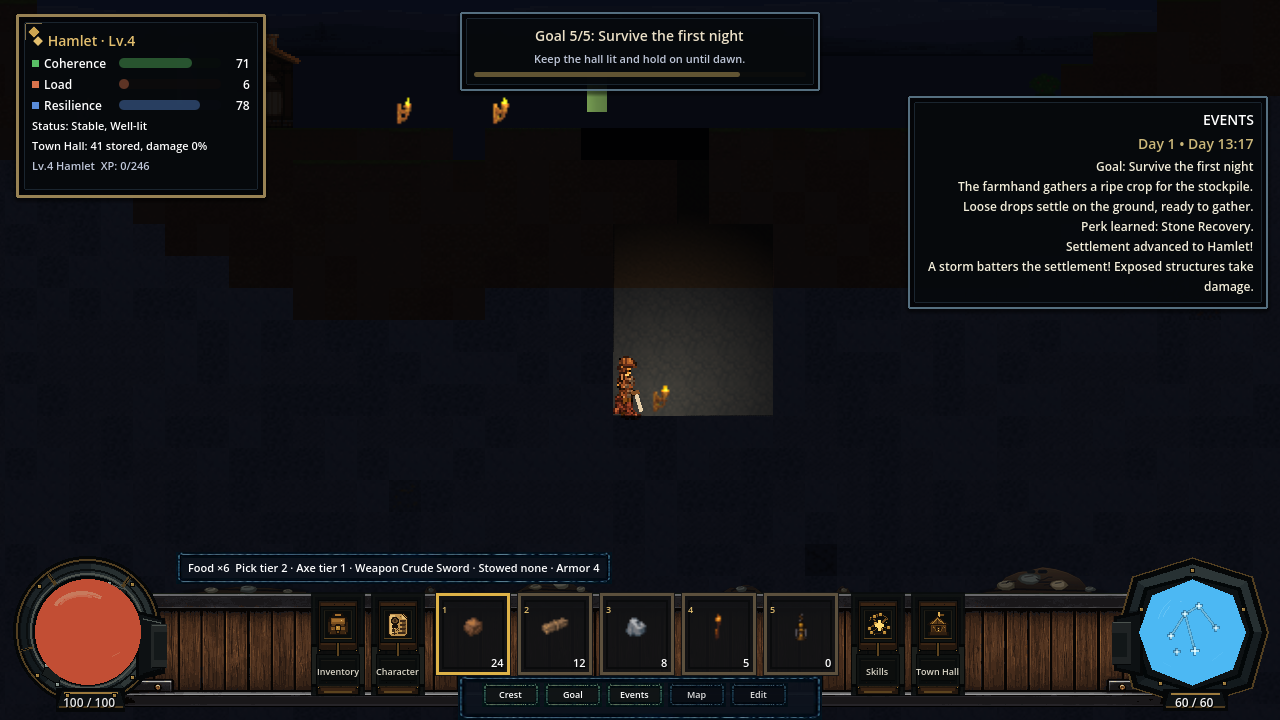
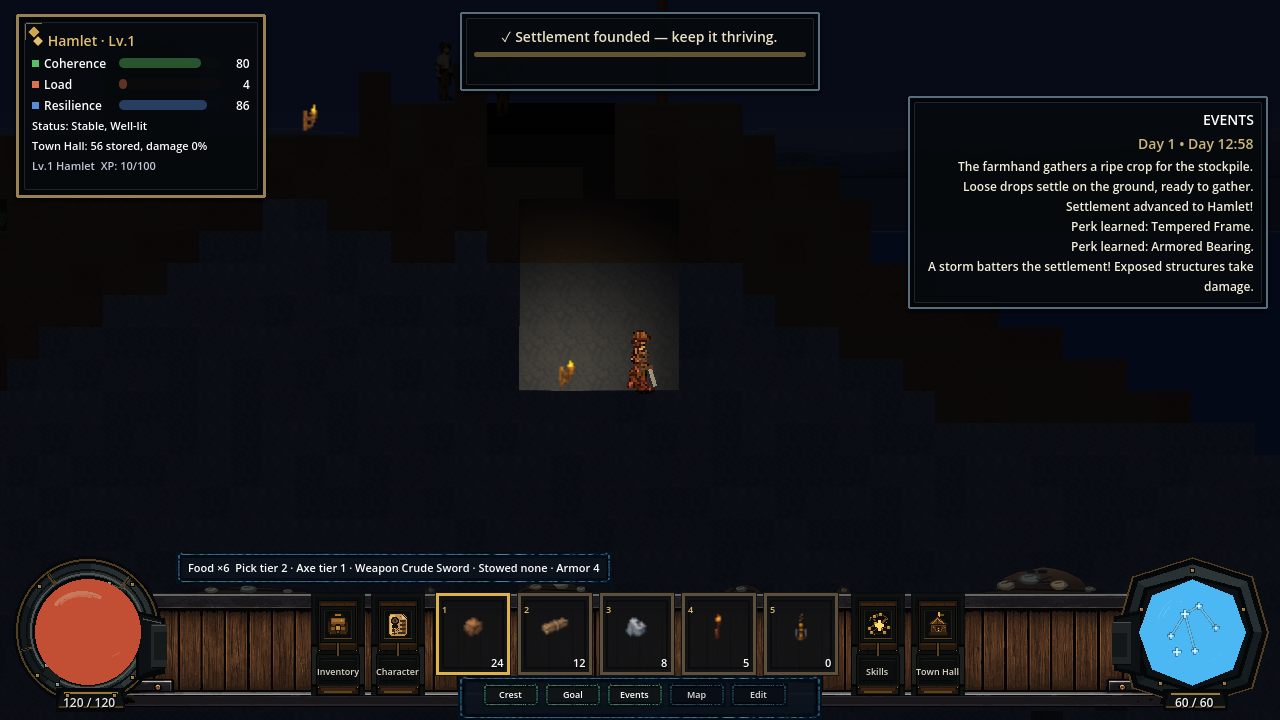
docs: refresh stale gameplay screenshots with current settler sprites
The 2026-07-24 gameplay/settlement shots predated the citizen-art pipeline, so
their settlers rendered as placeholders. Recaptured 01/02/03/04/06/08/09/10/11/
12/14/15/16/17/18 from the live build — the settlement now shows proper
player-pipeline settler sprites (e.g. the hero shot and the farmhand scene are
visibly populated). The curated liquid/depth/lighting art shots (19–30) have no
NPCs and are left unchanged. README screenshot caption dated accordingly.

diff --git a/README.md b/README.md
@@ -30,7 +30,7 @@ It is also a **portfolio project in AI-orchestrated software engineering**: ever
 
 ## Screenshots
 
-*Captured from the live build (gameplay shots 2026-07-24; World Depths shots 2026-07-28; Liquid Physics + depth-block art shots 2026-07-29; underground-lighting before/after 2026-08-04).*
+*Captured from the live build (gameplay, settlement, Calling, and character/UI shots refreshed 2026-08-05 with current settler sprites; World Depths shots 2026-07-28; Liquid Physics + depth-block art shots 2026-07-29; underground-lighting before/after 2026-08-04).*
 
 ![Deep underground in the hell biome — the player on a hellstone ledge beside a glowing lava lake, torch-lit under an ember tint](docs/screenshots/19_hell_biome.png)
 *New in the **World Depths** arc: every world is now a deep vertical descent. Dig down through stone into **deepstone**, then into a **hell biome** of hellstone and obsidian pooled with **lava** — a non-solid, light-emitting block that burns anything standing in it (routed through the same `take_damage` authority as combat). Mixed **caverns and winding tunnels** riddle the depths, and an unmineable **bedrock floor** bounds the world. The deepest band drives an ember ambient tint; lava now reads as a continuous molten body with a soft, level-scaled glow. **The depth blocks — deepstone, hellstone, and obsidian — are authored pixel art** (a finely mottled rock base with scattered mineral cracks/flecks, six per-cell variants each so the walls never tile into a repeating grid), and **hellstone and obsidian now drop their own item** when mined rather than generic stone.*
